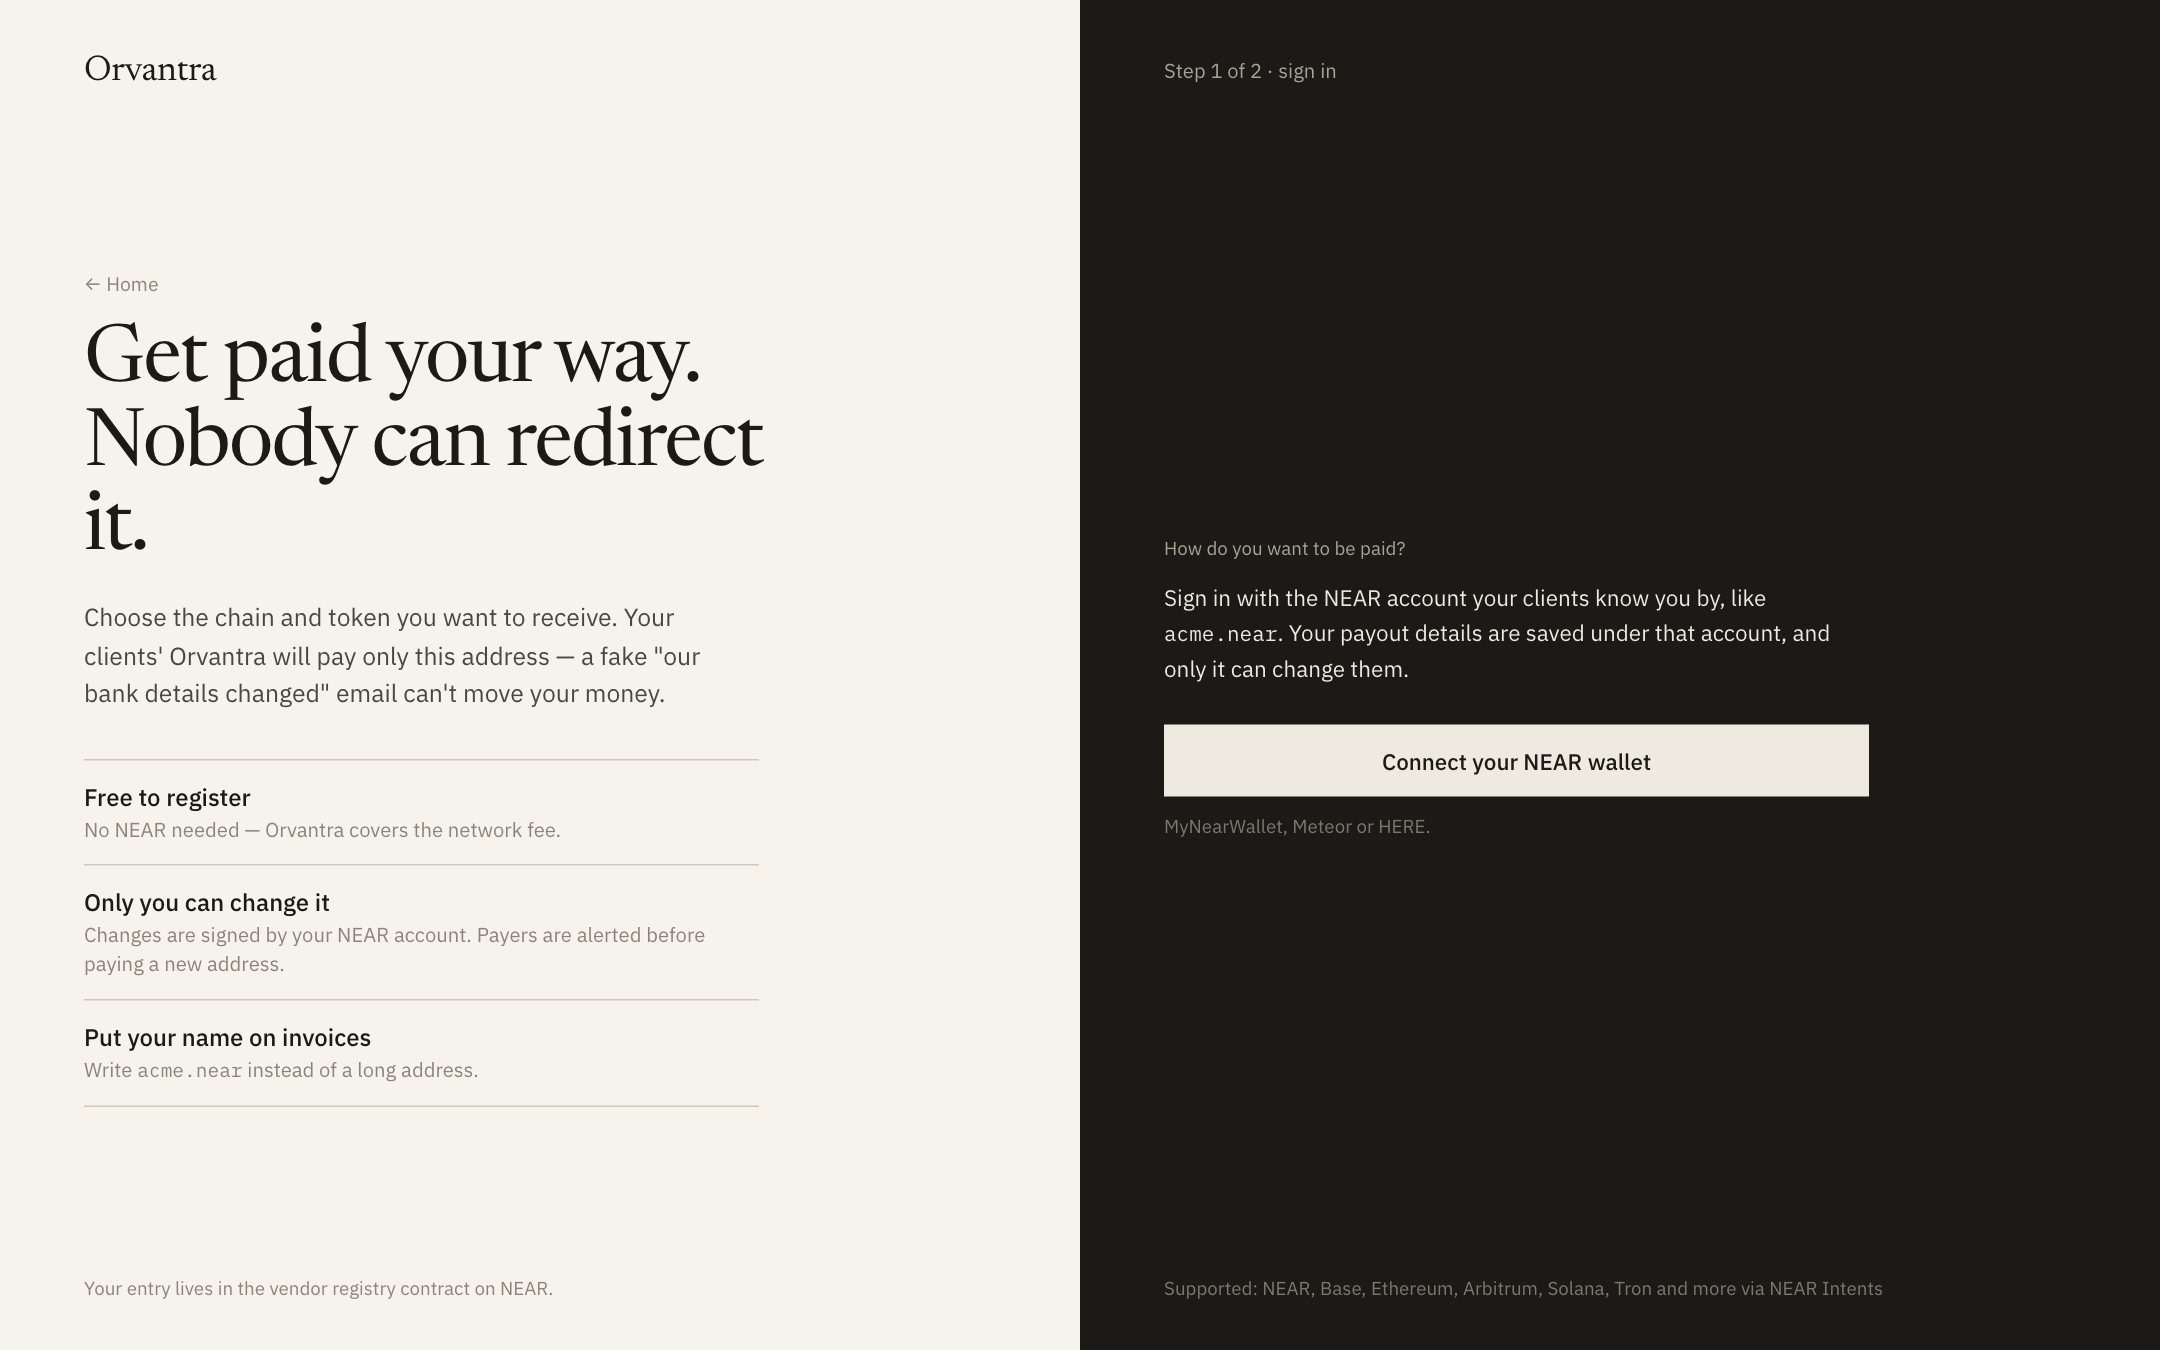
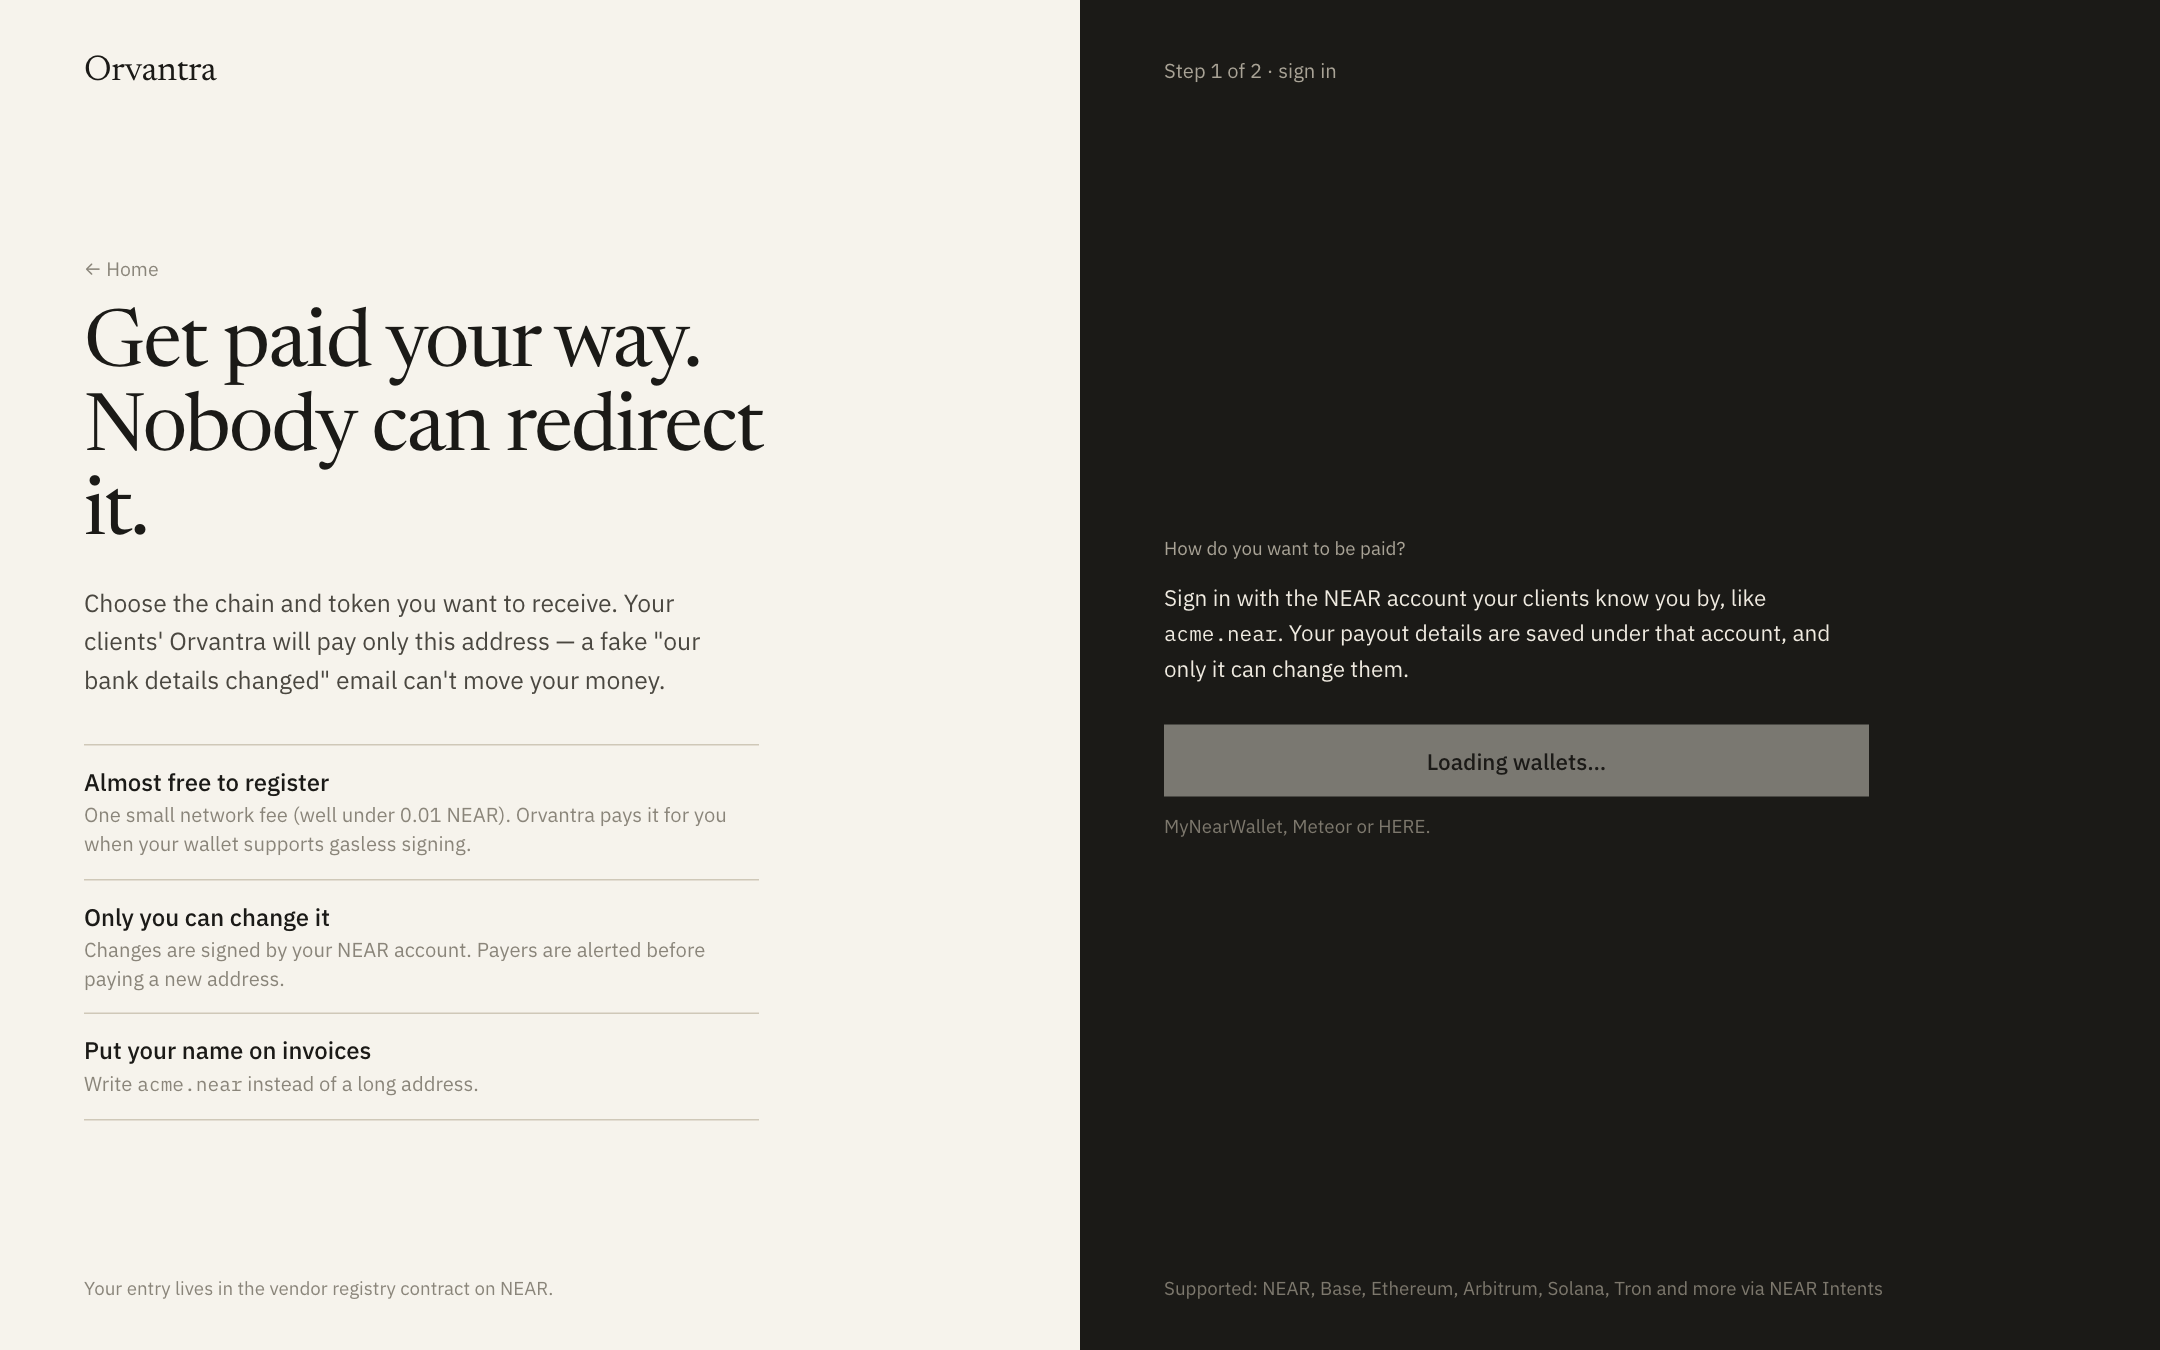
copy: honest fee wording on vendor page (wallets lack delegate signing)

diff --git a/web/app/(public)/register/page.tsx b/web/app/(public)/register/page.tsx
@@ -33,7 +33,7 @@ export default async function Register() {
             fake &quot;our bank details changed&quot; email can&apos;t move your money.
           </p>
           <dl className="facts">
-            <div><dt>Free to register</dt><dd>No NEAR needed — Orvantra covers the network fee.</dd></div>
+            <div><dt>Almost free to register</dt><dd>One small network fee (well under 0.01 NEAR). Orvantra pays it for you when your wallet supports gasless signing.</dd></div>
             <div><dt>Only you can change it</dt><dd>Changes are signed by your NEAR account. Payers are alerted before paying a new address.</dd></div>
             <div><dt>Put your name on invoices</dt><dd>Write <code className="m">acme.near</code> instead of a long address.</dd></div>
           </dl>

diff --git a/web/app/(public)/page.tsx b/web/app/(public)/page.tsx
@@ -49,7 +49,7 @@ export default async function Home() {
             </Link>
             <a href={links.vendorUrl}>
               <b>I send invoices</b>
-              <span>Register how you want to be paid — free</span>
+              <span>Register how you want to be paid</span>
               <i className="ar" aria-hidden="true">→</i>
             </a>
             <Link href="/judges">
